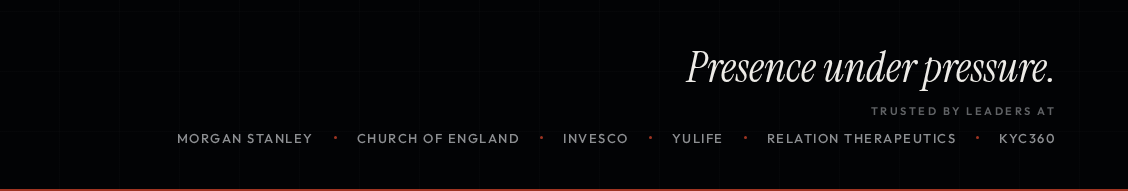
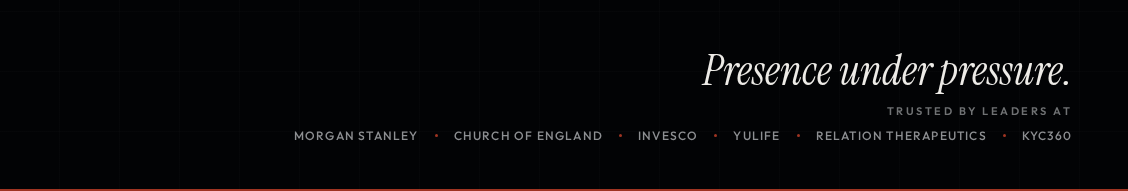
Rename newsletter from "Something Worth Reading" to "Presence Under Pressure"
Updates all 31 files including OG image template, newsletter page,
homepage, about page, writing index, all blog posts, and post template.
Regenerated og-newsletter.png and banner-company.png.

Changed region(s): [[0.1551, 0.6806, 0.9619, 0.7592], [0.5895, 0.2618, 0.9619, 0.4974], [0.7757, 0.5497, 0.9619, 0.6021]]

diff --git a/writing/10-research-backed-tools-to-calm-down.html b/writing/10-research-backed-tools-to-calm-down.html
@@ -151,7 +151,7 @@ Or being hated, don’t give way to hating,
     <!-- Newsletter callout -->
     <aside class="post-callout">
       <div class="post-callout-eyebrow">Newsletter</div>
-      <div class="post-callout-heading">Something Worth Reading</div>
+      <div class="post-callout-heading">Presence Under Pressure</div>
       <p class="post-callout-text">A weekly letter on communication, human performance, and the internal blockers that keep capable people stuck.</p>
       <form class="newsletter-form" aria-label="Newsletter signup">
         <label class="sr-only" for="email-callout">Email address</label>
@@ -217,7 +217,7 @@ Or being hated, don’t give way to hating,
 <section class="section-newsletter reveal">
   <div class="newsletter-inner">
     <span class="eyebrow">Newsletter</span>
-    <h2 class="newsletter-heading">Something Worth Reading</h2>
+    <h2 class="newsletter-heading">Presence Under Pressure</h2>
     <p class="newsletter-subtext">
       A weekly letter on communication, human performance, and the internal blockers that keep capable people stuck.
     </p>

diff --git a/writing/post-template.html b/writing/post-template.html
@@ -101,7 +101,7 @@
     <!-- ✏ Place this callout roughly halfway through your post -->
     <aside class="post-callout">
       <div class="post-callout-eyebrow">Newsletter</div>
-      <div class="post-callout-heading">Something Worth Reading</div>
+      <div class="post-callout-heading">Presence Under Pressure</div>
       <p class="post-callout-text">A weekly letter on communication, human performance, and the internal blockers that keep capable people stuck.</p>
       <form class="newsletter-form" aria-label="Newsletter signup">
         <label class="sr-only" for="email-callout">Email address</label>
@@ -120,7 +120,7 @@
 <section class="section-newsletter reveal">
   <div class="newsletter-inner">
     <span class="eyebrow">Newsletter</span>
-    <h2 class="newsletter-heading">Something Worth Reading</h2>
+    <h2 class="newsletter-heading">Presence Under Pressure</h2>
     <p class="newsletter-subtext">
       A weekly letter on communication, human performance, and the internal blockers that keep capable people stuck.
     </p>

diff --git a/writing/axios-charges-for-this-youll-get-it-here-free.html b/writing/axios-charges-for-this-youll-get-it-here-free.html
@@ -104,7 +104,7 @@
     <!-- Newsletter callout -->
     <aside class="post-callout">
       <div class="post-callout-eyebrow">Newsletter</div>
-      <div class="post-callout-heading">Something Worth Reading</div>
+      <div class="post-callout-heading">Presence Under Pressure</div>
       <p class="post-callout-text">A weekly letter on communication, human performance, and the internal blockers that keep capable people stuck.</p>
       <form class="newsletter-form" aria-label="Newsletter signup">
         <label class="sr-only" for="email-callout">Email address</label>
@@ -130,7 +130,7 @@
 <section class="section-newsletter reveal">
   <div class="newsletter-inner">
     <span class="eyebrow">Newsletter</span>
-    <h2 class="newsletter-heading">Something Worth Reading</h2>
+    <h2 class="newsletter-heading">Presence Under Pressure</h2>
     <p class="newsletter-subtext">
       A weekly letter on communication, human performance, and the internal blockers that keep capable people stuck.
     </p>

diff --git a/writing/cold-outreach-is-like-asking-for-a-date-most-people-are-doin.html b/writing/cold-outreach-is-like-asking-for-a-date-most-people-are-doin.html
@@ -122,7 +122,7 @@
     <!-- Newsletter callout -->
     <aside class="post-callout">
       <div class="post-callout-eyebrow">Newsletter</div>
-      <div class="post-callout-heading">Something Worth Reading</div>
+      <div class="post-callout-heading">Presence Under Pressure</div>
       <p class="post-callout-text">A weekly letter on communication, human performance, and the internal blockers that keep capable people stuck.</p>
       <form class="newsletter-form" aria-label="Newsletter signup">
         <label class="sr-only" for="email-callout">Email address</label>
@@ -166,7 +166,7 @@
 <section class="section-newsletter reveal">
   <div class="newsletter-inner">
     <span class="eyebrow">Newsletter</span>
-    <h2 class="newsletter-heading">Something Worth Reading</h2>
+    <h2 class="newsletter-heading">Presence Under Pressure</h2>
     <p class="newsletter-subtext">
       A weekly letter on communication, human performance, and the internal blockers that keep capable people stuck.
     </p>

diff --git a/writing/colorless-green-ideas-sleep-furiously-and-so-do-your-audienc.html b/writing/colorless-green-ideas-sleep-furiously-and-so-do-your-audienc.html
@@ -162,7 +162,7 @@
     <!-- Newsletter callout -->
     <aside class="post-callout">
       <div class="post-callout-eyebrow">Newsletter</div>
-      <div class="post-callout-heading">Something Worth Reading</div>
+      <div class="post-callout-heading">Presence Under Pressure</div>
       <p class="post-callout-text">A weekly letter on communication, human performance, and the internal blockers that keep capable people stuck.</p>
       <form class="newsletter-form" aria-label="Newsletter signup">
         <label class="sr-only" for="email-callout">Email address</label>
@@ -246,7 +246,7 @@
 <section class="section-newsletter reveal">
   <div class="newsletter-inner">
     <span class="eyebrow">Newsletter</span>
-    <h2 class="newsletter-heading">Something Worth Reading</h2>
+    <h2 class="newsletter-heading">Presence Under Pressure</h2>
     <p class="newsletter-subtext">
       A weekly letter on communication, human performance, and the internal blockers that keep capable people stuck.
     </p>

diff --git a/writing/dont-pitch-your-idea-until-youve-done-this-first.html b/writing/dont-pitch-your-idea-until-youve-done-this-first.html
@@ -116,7 +116,7 @@
     <!-- Newsletter callout -->
     <aside class="post-callout">
       <div class="post-callout-eyebrow">Newsletter</div>
-      <div class="post-callout-heading">Something Worth Reading</div>
+      <div class="post-callout-heading">Presence Under Pressure</div>
       <p class="post-callout-text">A weekly letter on communication, human performance, and the internal blockers that keep capable people stuck.</p>
       <form class="newsletter-form" aria-label="Newsletter signup">
         <label class="sr-only" for="email-callout">Email address</label>
@@ -154,7 +154,7 @@
 <section class="section-newsletter reveal">
   <div class="newsletter-inner">
     <span class="eyebrow">Newsletter</span>
-    <h2 class="newsletter-heading">Something Worth Reading</h2>
+    <h2 class="newsletter-heading">Presence Under Pressure</h2>
     <p class="newsletter-subtext">
       A weekly letter on communication, human performance, and the internal blockers that keep capable people stuck.
     </p>

diff --git a/writing/even-100m-entrepreneurs-get-nervous-heres-why.html b/writing/even-100m-entrepreneurs-get-nervous-heres-why.html
@@ -114,7 +114,7 @@
     <!-- Newsletter callout -->
     <aside class="post-callout">
       <div class="post-callout-eyebrow">Newsletter</div>
-      <div class="post-callout-heading">Something Worth Reading</div>
+      <div class="post-callout-heading">Presence Under Pressure</div>
       <p class="post-callout-text">A weekly letter on communication, human performance, and the internal blockers that keep capable people stuck.</p>
       <form class="newsletter-form" aria-label="Newsletter signup">
         <label class="sr-only" for="email-callout">Email address</label>
@@ -150,7 +150,7 @@
 <section class="section-newsletter reveal">
   <div class="newsletter-inner">
     <span class="eyebrow">Newsletter</span>
-    <h2 class="newsletter-heading">Something Worth Reading</h2>
+    <h2 class="newsletter-heading">Presence Under Pressure</h2>
     <p class="newsletter-subtext">
       A weekly letter on communication, human performance, and the internal blockers that keep capable people stuck.
     </p>

diff --git a/writing/how-to-deliver-bad-news.html b/writing/how-to-deliver-bad-news.html
@@ -122,7 +122,7 @@
     <!-- Newsletter callout -->
     <aside class="post-callout">
       <div class="post-callout-eyebrow">Newsletter</div>
-      <div class="post-callout-heading">Something Worth Reading</div>
+      <div class="post-callout-heading">Presence Under Pressure</div>
       <p class="post-callout-text">A weekly letter on communication, human performance, and the internal blockers that keep capable people stuck.</p>
       <form class="newsletter-form" aria-label="Newsletter signup">
         <label class="sr-only" for="email-callout">Email address</label>
@@ -166,7 +166,7 @@
 <section class="section-newsletter reveal">
   <div class="newsletter-inner">
     <span class="eyebrow">Newsletter</span>
-    <h2 class="newsletter-heading">Something Worth Reading</h2>
+    <h2 class="newsletter-heading">Presence Under Pressure</h2>
     <p class="newsletter-subtext">
       A weekly letter on communication, human performance, and the internal blockers that keep capable people stuck.
     </p>

diff --git a/writing/how-to-get-buy-in-for-your-decisions.html b/writing/how-to-get-buy-in-for-your-decisions.html
@@ -124,7 +124,7 @@
     <!-- Newsletter callout -->
     <aside class="post-callout">
       <div class="post-callout-eyebrow">Newsletter</div>
-      <div class="post-callout-heading">Something Worth Reading</div>
+      <div class="post-callout-heading">Presence Under Pressure</div>
       <p class="post-callout-text">A weekly letter on communication, human performance, and the internal blockers that keep capable people stuck.</p>
       <form class="newsletter-form" aria-label="Newsletter signup">
         <label class="sr-only" for="email-callout">Email address</label>
@@ -170,7 +170,7 @@
 <section class="section-newsletter reveal">
   <div class="newsletter-inner">
     <span class="eyebrow">Newsletter</span>
-    <h2 class="newsletter-heading">Something Worth Reading</h2>
+    <h2 class="newsletter-heading">Presence Under Pressure</h2>
     <p class="newsletter-subtext">
       A weekly letter on communication, human performance, and the internal blockers that keep capable people stuck.
     </p>

diff --git a/writing/how-to-have-great-conversations.html b/writing/how-to-have-great-conversations.html
@@ -116,7 +116,7 @@
     <!-- Newsletter callout -->
     <aside class="post-callout">
       <div class="post-callout-eyebrow">Newsletter</div>
-      <div class="post-callout-heading">Something Worth Reading</div>
+      <div class="post-callout-heading">Presence Under Pressure</div>
       <p class="post-callout-text">A weekly letter on communication, human performance, and the internal blockers that keep capable people stuck.</p>
       <form class="newsletter-form" aria-label="Newsletter signup">
         <label class="sr-only" for="email-callout">Email address</label>
@@ -152,7 +152,7 @@
 <section class="section-newsletter reveal">
   <div class="newsletter-inner">
     <span class="eyebrow">Newsletter</span>
-    <h2 class="newsletter-heading">Something Worth Reading</h2>
+    <h2 class="newsletter-heading">Presence Under Pressure</h2>
     <p class="newsletter-subtext">
       A weekly letter on communication, human performance, and the internal blockers that keep capable people stuck.
     </p>

diff --git a/writing/i-messed-up-this-week.html b/writing/i-messed-up-this-week.html
@@ -116,7 +116,7 @@
     <!-- Newsletter callout -->
     <aside class="post-callout">
       <div class="post-callout-eyebrow">Newsletter</div>
-      <div class="post-callout-heading">Something Worth Reading</div>
+      <div class="post-callout-heading">Presence Under Pressure</div>
       <p class="post-callout-text">A weekly letter on communication, human performance, and the internal blockers that keep capable people stuck.</p>
       <form class="newsletter-form" aria-label="Newsletter signup">
         <label class="sr-only" for="email-callout">Email address</label>
@@ -152,7 +152,7 @@
 <section class="section-newsletter reveal">
   <div class="newsletter-inner">
     <span class="eyebrow">Newsletter</span>
-    <h2 class="newsletter-heading">Something Worth Reading</h2>
+    <h2 class="newsletter-heading">Presence Under Pressure</h2>
     <p class="newsletter-subtext">
       A weekly letter on communication, human performance, and the internal blockers that keep capable people stuck.
     </p>

diff --git a/writing/i-stopped-asking-ai-for-answers-and-thats-when-it-got-powerf.html b/writing/i-stopped-asking-ai-for-answers-and-thats-when-it-got-powerf.html
@@ -137,7 +137,7 @@
     <!-- Newsletter callout -->
     <aside class="post-callout">
       <div class="post-callout-eyebrow">Newsletter</div>
-      <div class="post-callout-heading">Something Worth Reading</div>
+      <div class="post-callout-heading">Presence Under Pressure</div>
       <p class="post-callout-text">A weekly letter on communication, human performance, and the internal blockers that keep capable people stuck.</p>
       <form class="newsletter-form" aria-label="Newsletter signup">
         <label class="sr-only" for="email-callout">Email address</label>
@@ -223,7 +223,7 @@
 <section class="section-newsletter reveal">
   <div class="newsletter-inner">
     <span class="eyebrow">Newsletter</span>
-    <h2 class="newsletter-heading">Something Worth Reading</h2>
+    <h2 class="newsletter-heading">Presence Under Pressure</h2>
     <p class="newsletter-subtext">
       A weekly letter on communication, human performance, and the internal blockers that keep capable people stuck.
     </p>
